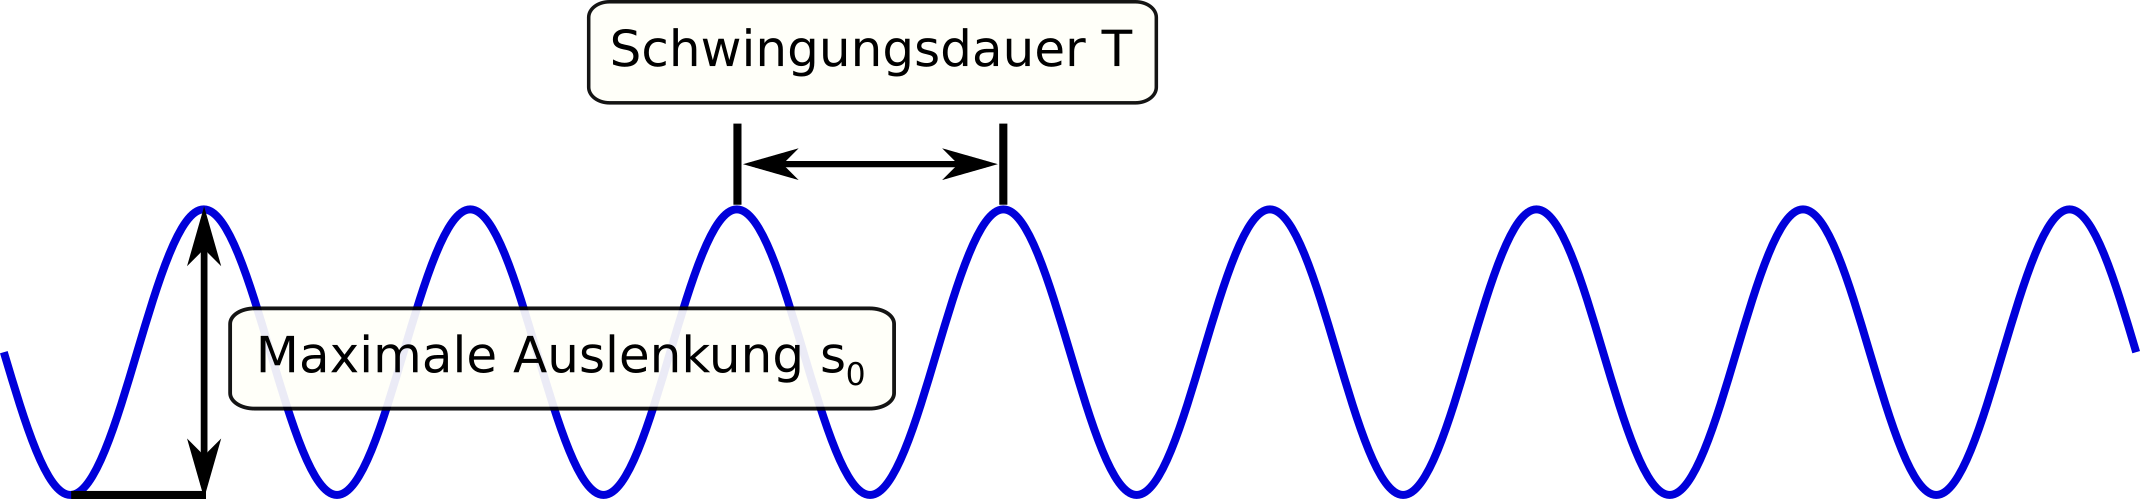
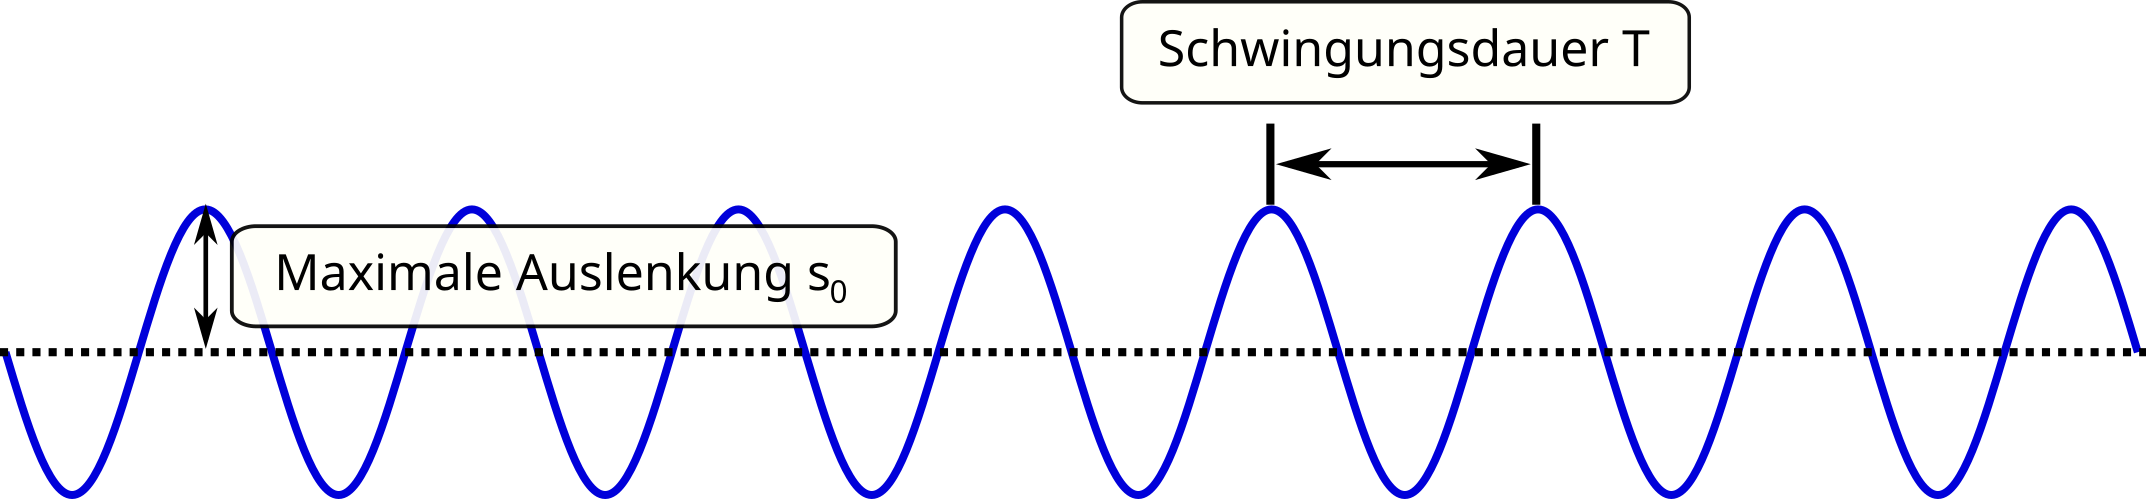
Korrigierte Abbilung zur maximalen Auslenkung, fixes #12

diff --git a/M01.5_Schwingungen_und_Wellen.tex b/M01.5_Schwingungen_und_Wellen.tex
@@ -38,7 +38,7 @@
 \title[M01.6 Schwingungen und Wellen]{M01.6 Schwingungen und Wellen}
 \author[melanie.stefan@medicalschool-berlin.de]{M01 Physik für Mediziner*innen}
 \institute[]{Prof. Melanie Stefan - melanie.stefan@medicalschool-berlin.de}
-\date{SoSe23}
+\date{SoSe24}
  
 
 % Table of contents to pop up at the beginning of each section
